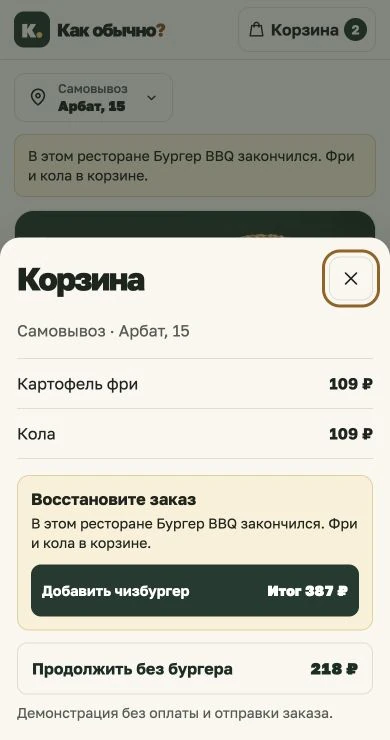
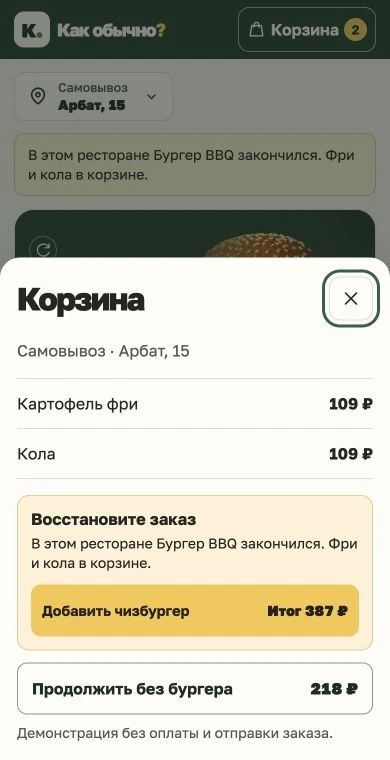
Unify product colors and refresh mobile screenshots

diff --git a/style.css b/style.css
@@ -6,14 +6,20 @@
   font-display: swap;
 }
 :root {
-  --paper: #f9f7ef;
-  --ink: #1d241d;
-  --green: #213b30;
+  --paper: #f8f6ee;
+  --surface: #fffdf8;
+  --ink: #21271f;
+  --muted: #505b50;
+  --border: #dedfd3;
+  --green: #203e32;
   --green-dark: #172e23;
-  --muted: #555d51;
-  --border: #deded1;
-  --amber: #f6c45a;
-  --leaf: #e9eee3;
+  --focus: #286049;
+  --action-bg: #f7c747;
+  --action-hover: #edb93a;
+  --action-ink: #282218;
+  --notice-bg: #fff2d6;
+  --notice-border: #e4cb91;
+  --leaf: #e8f0e7;
   font-family: "Golos Text", Arial, sans-serif;
   color: var(--ink);
   background: var(--paper);
@@ -24,31 +30,35 @@ body { margin: 0; }
 button, input { font: inherit; }
 button { cursor: pointer; color: inherit; }
 button:disabled { cursor: default; }
-:focus-visible { outline: 3px solid #986017; outline-offset: 4px; }
+:focus-visible { outline: 3px solid var(--focus); outline-offset: 4px; }
 [hidden] { display: none !important; }
 a { color: inherit; text-decoration: none; }
 h1, h2, p { margin: 0; }
 svg { width: 22px; height: 22px; flex: none; fill: none; stroke: currentColor; stroke-width: 1.75; stroke-linecap: round; stroke-linejoin: round; }
 .symbols, .sr-only { position: absolute; width: 1px; height: 1px; overflow: hidden; clip-path: inset(50%); white-space: nowrap; }
 .shell { width: min(100% - 48px, 680px); margin-inline: auto; }
-.top { border-bottom: 1px solid var(--border); }
+.top { background: var(--green); color: var(--surface); }
+.top :focus-visible { outline-color: var(--action-bg); }
 .top-inner { display: flex; justify-content: space-between; align-items: center; min-height: 67px; gap: 12px; }
 .wordmark { display: inline-flex; align-items: center; gap: 9px; font-weight: 800; font-size: 20px; letter-spacing: -.048em; }
-.mark { padding-bottom: 3px; width: 36px; height: 36px; display: grid; place-content: center; grid-auto-flow: column; align-items: end; color: var(--paper); background: var(--green); border-radius: 10px; font-size: 25px; line-height: 1; }
-.mark span { color: var(--amber); }
-.accent { color: #95521e; }
+.mark { padding-bottom: 3px; width: 36px; height: 36px; display: grid; place-content: center; grid-auto-flow: column; align-items: end; color: var(--green-dark); background: var(--surface); border-radius: 10px; font-size: 25px; line-height: 1; }
+.mark span { color: #966319; }
+.accent { color: var(--action-bg); }
 .cart-button, .location { display: inline-flex; align-items: center; gap: 9px; background: transparent; padding: 0 12px; border: 1px solid var(--border); border-radius: 11px; min-height: 45px; font-weight: 650; }
-.cart-button:hover, .location:hover { background: #efeee3; }
-.count { display: grid; place-items: center; min-width: 23px; height: 23px; padding: 0 4px; border-radius: 20px; background: var(--green); color: white; font-size: 13px; }
+.cart-button { border-color: #96aa9d; }
+.cart-button:hover { background: #39594a; }
+.location { background: var(--surface); }
+.location:hover { background: var(--leaf); }
+.count { display: grid; place-items: center; min-width: 23px; height: 23px; padding: 0 4px; border-radius: 20px; background: var(--action-bg); color: var(--action-ink); font-size: 13px; }
 .order-screen { padding-top: 20px; }
 .location { text-align: left; min-height: 49px; padding: 6px 12px; margin-bottom: 15px; }
 .location small, .location strong { display: block; }
 .location small { font-size: .78rem; font-weight: 500; color: var(--muted); margin-bottom: 2px; }
 .location strong { font-size: .875rem; }
-.location-notice { margin: 0 0 13px; padding: 11px 13px; border: 1px solid #e4cf9c; border-radius: 10px; background: #fbf0d6; color: var(--ink); line-height: 1.4; font-size: .875rem; }
+.location-notice { margin: 0 0 13px; padding: 11px 13px; border: 1px solid var(--notice-border); border-radius: 10px; background: var(--notice-bg); color: var(--ink); line-height: 1.4; font-size: .875rem; }
 .location-chevron { width: 17px; height: 17px; margin-left: 6px; }
 
-.order-ticket { border: 1px solid var(--border); border-radius: 20px; background: #fffdf7; overflow: hidden; }
+.order-ticket { border: 1px solid var(--border); border-radius: 20px; background: var(--surface); overflow: hidden; }
 .order-cover {
   position: relative;
   isolation: isolate;
@@ -85,7 +95,7 @@ h1 { max-width: 7ch; font-size: clamp(2.25rem, 7.6vw, 3.65rem); line-height: .99
 .order-lines li:first-child { border: 0; color: var(--ink); }
 .order-lines li > :last-child { white-space: nowrap; }
 .order-lines small { display: block; margin-top: 4px; color: var(--muted); font-size: .8rem; line-height: 1.35; }
-.swap-offer { display: grid; grid-template-columns: 60px 1fr auto; align-items: center; gap: 11px; padding: 8px; border: 1px solid #ead8ae; border-radius: 12px; background: #fbf0d6; }
+.swap-offer { display: grid; grid-template-columns: 60px 1fr auto; align-items: center; gap: 11px; padding: 8px; border: 1px solid var(--notice-border); border-radius: 12px; background: var(--notice-bg); }
 .swap-offer[data-state="applied"] { border-color: #d2ddcb; background: var(--leaf); }
 .swap-offer[data-state="unavailable"] { border-color: var(--border); background: #f1efe7; }
 .swap-photo { width: 60px; height: 55px; overflow: hidden; border-radius: 7px; }
@@ -117,17 +127,17 @@ h1 { max-width: 7ch; font-size: clamp(2.25rem, 7.6vw, 3.65rem); line-height: .99
 .order-actions::after { right: -8px; }
 .action { display: flex; align-items: center; justify-content: space-between; gap: 8px; width: 100%; min-height: 52px; border: 1px solid transparent; padding: 10px 14px; border-radius: 10px; text-align: left; font-size: 1rem; font-weight: 700; }
 .action strong { white-space: nowrap; font-variant-numeric: tabular-nums; }
-.primary { background: var(--green); color: white; }
-.primary:hover { background: var(--green-dark); }
-.secondary { border-color: var(--border); background: var(--paper); color: var(--green-dark); }
+.primary { background: var(--action-bg); color: var(--action-ink); }
+.primary:hover { background: var(--action-hover); }
+.secondary { border-color: #829a88; background: var(--surface); color: var(--green-dark); }
 .secondary:hover { background: var(--leaf); }
 .foot { display: flex; justify-content: space-between; gap: 10px; flex-wrap: wrap; padding: 15px 0 20px; color: var(--muted); font-size: .8rem; }
-dialog { margin: auto 0 auto auto; width: min(100%, 456px); max-width: 100%; max-height: 100dvh; min-height: 100dvh; padding: 25px; border: 0; border-left: 1px solid var(--border); color: var(--ink); background: var(--paper); box-shadow: 0 12px 40px #1d241d44; }
+dialog { margin: auto 0 auto auto; width: min(100%, 456px); max-width: 100%; max-height: 100dvh; min-height: 100dvh; padding: 25px; border: 0; border-left: 1px solid var(--border); color: var(--ink); background: var(--surface); box-shadow: 0 12px 40px #1d241d44; }
 dialog::backdrop { background: #15231888; }
 .dialog-head { display: flex; align-items: center; justify-content: space-between; gap: 10px; margin-bottom: 19px; }
 .dialog-head h2 { font-size: 2rem; font-weight: 800; line-height: 1.05; letter-spacing: -.052em; }
 .close { border: 1px solid var(--border); padding: 0; width: 44px; height: 44px; display: grid; place-items: center; background: transparent; border-radius: 11px; flex: none; }
-.close:hover { background: #efeee3; }
+.close:hover { background: var(--leaf); }
 #locations { display: grid; gap: 9px; margin-bottom: 15px; }
 .restaurant { display: flex; align-items: flex-start; gap: 12px; padding: 14px; border: 1px solid var(--border); border-radius: 11px; cursor: pointer; }
 .restaurant:has(:checked) { background: var(--leaf); border-color: #8a9c84; }
@@ -140,7 +150,7 @@ dialog::backdrop { background: #15231888; }
 .cart-items small { display: block; color: var(--muted); margin-top: 3px; }
 .cart-items strong { white-space: nowrap; }
 .cart-note { margin: 0 0 16px; padding: 12px; background: var(--leaf); border-radius: 9px; color: var(--green-dark); line-height: 1.4; }
-.recovery-offer { margin: 0 0 12px; padding: 13px; border: 1px solid #e4cf9c; border-radius: 12px; background: #fbf0d6; }
+.recovery-offer { margin: 0 0 12px; padding: 13px; border: 1px solid var(--notice-border); border-radius: 12px; background: var(--notice-bg); }
 .recovery-offer h3 { margin: 0 0 5px; font-size: 1.02rem; }
 .recovery-offer p { margin: 0 0 12px; color: var(--ink); font-size: .875rem; line-height: 1.4; }
 .recovery-offer .action { font-size: .9rem; padding-inline: 10px; }

diff --git a/index.html b/index.html
@@ -3,7 +3,7 @@
 <head>
   <meta charset="utf-8">
   <meta name="viewport" content="width=device-width, initial-scale=1">
-  <meta name="theme-color" content="#f9f7ef">
+  <meta name="theme-color" content="#203e32">
   <meta name="description" content="Концепт быстрого повторного заказа для «Вкусно — и точка».">
   <title>Как обычно? — быстрый заказ</title>
   <link rel="icon" href="./favicon.svg" type="image/svg+xml">

diff --git a/docs/research.md b/docs/research.md
@@ -70,7 +70,7 @@ DoorDash описывает повтор продуктовой корзины, 
 
 Веб-демо имеет [прямой вход в восстановление](https://worker4556.github.io/kak-obychno/?scenario=recovery) с тестовой корзиной. [Обычный вход](https://worker4556.github.io/kak-obychno/) показывает точный повтор и добровольную замену.
 
-**Компоненты.** Выбор ресторана, карточка заказа, строка замены и позиция корзины используют общие роли для действия, подписи, цены и статуса. У строки замены три состояния: доступна, применена и недоступна. Состояние передаётся текстом, а изменение суммы объявляется скринридеру. [Apple HIG о статусах](https://developer.apple.com/design/human-interface-guidelines/feedback) · [WCAG 2.2](https://www.w3.org/TR/WCAG22/)
+**Компоненты.** Выбор ресторана, карточка заказа, строка замены и позиция корзины используют общие роли для действия, подписи, цены и статуса. У строки замены три состояния: доступна, применена и недоступна. Зелёная шапка задаёт контекст, жёлтая кнопка выделяет основное действие, а контурная оставляет видимым второй вариант. Плашка сообщает о недоступности текстом, а изменение суммы объявляется скринридеру. Контраст текста на основной кнопке — 9,92:1, текста шапки — 11,50:1. [Apple HIG о статусах](https://developer.apple.com/design/human-interface-guidelines/feedback) · [WCAG 2.2](https://www.w3.org/TR/WCAG22/)
 
 ## 4. Как проверить гипотезу
 
